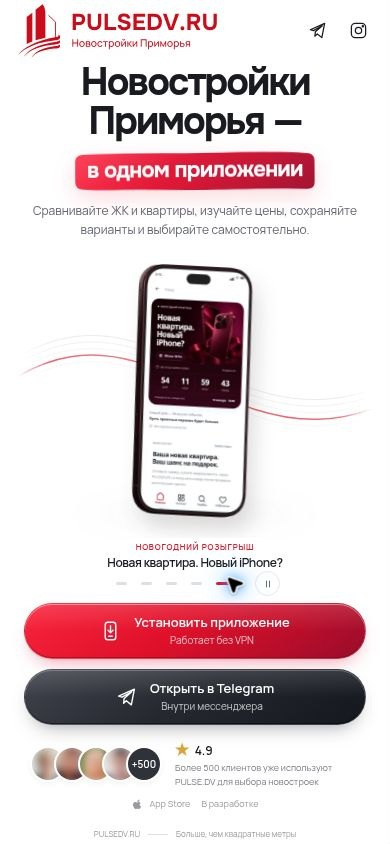
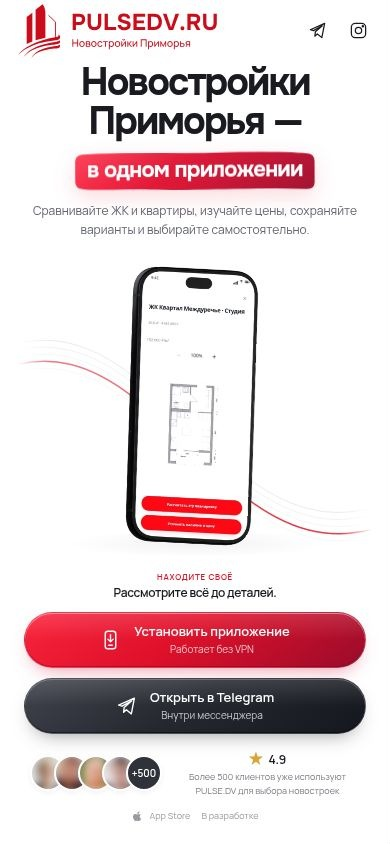
design: remove slideshow controls and decode device frames before transitions

diff --git a/design/landing-dual-entry/cinema.js b/design/landing-dual-entry/cinema.js
@@ -1,7 +1,6 @@
-// Original app captures on device renders. One pair owns the stage at a time.
+// Decoded, reused device images; only compositor transforms change each frame.
 const host=document.querySelector('.cinema'),stage=document.querySelector('.showcase');
 const description=document.querySelector('.scene-description'),caption=document.querySelector('.scene-caption'),label=document.querySelector('.scene-label');
-const pauseButton=document.querySelector('.motion-toggle'),dots=[...document.querySelectorAll('.scene-dot')];
 const reduced=matchMedia('(prefers-reduced-motion: reduce)');
 const scenes=[
  {title:'Новостройки — перед вами.',label:'Выбирайте',screens:['home','catalog'],angles:[-4,4],heights:[.88,.78],levels:[-.015,.035]},
@@ -11,74 +10,93 @@ const scenes=[
  {title:'Новая квартира. Новый iPhone?',label:'Новогодний розыгрыш',screens:['catalog','giveaway'],angles:[-4,3],heights:[.76,.90],levels:[.045,-.015]},
 ];
 const curves=[[470,240,160,-30,435,770],[370,430,310,-140,360,920],[535,180,10,140,555,530],[390,360,180,-30,470,840],[490,210,280,-180,380,700]];
+
 const paths=[...document.querySelectorAll('.flow-line')];
-const HOLD=6.5,EXIT=.95,ENTER=1.05;
-let clock=0,last=0,raf=0,current=0,next=0,previous=0,mode='enter',started=0,paused=false,visible=true,queued=null;
-let pair=null,dimensions={width:600,height:600};
+const HOLD=6.5,EXIT=.72,ENTER=1.10,REV='motion-4';
+const images=new Map();
+let clock=0,last=0,raf=0,current=0,next=0,previous=0,mode='enter',started=0,paused=false,visible=true,preparing=false,lastLine=-1;
+let pair=null,dimensions={width:600,height:600},poses=[];
 const clamp=x=>Math.max(0,Math.min(1,x));
 const smooth=x=>{const t=clamp(x);return t*t*(3-2*t)};
+const easeOut=x=>1-Math.pow(1-clamp(x),3);
+function loadScreen(name,priority='low'){
+ if(images.has(name))return images.get(name).promise;
+ const image=new Image();image.decoding='async';image.fetchPriority=priority;image.className='rendered-phone';image.alt='';image.width=560;image.height=1152;image.draggable=false;
+ const promise=(async()=>{
+  const loaded=new Promise((resolve,reject)=>{image.onload=resolve;image.onerror=reject;});
+  loaded.catch(()=>{});
+  image.src=`assets/phone-${name}.webp?v=${REV}`;
+  if(typeof image.decode==='function')await image.decode();else await loaded;
+  if(!image.complete||!image.naturalWidth)throw Error('Device image unavailable');
+  image.dataset.decoded='true';return image;
+ })().catch(error=>{images.delete(name);throw error;});
+ images.set(name,{image,promise});return promise;
+}
 function createPair(index){
  const p=document.createElement('div');p.className='phone-pair';p.setAttribute('aria-hidden','true');p.style.opacity='0';p.dataset.scene=String(index);
- scenes[index].screens.forEach(name=>{const im=new Image();im.src=`assets/phone-${name}.webp`;im.className='rendered-phone';im.alt='';im.width=700;im.height=1440;im.draggable=false;p.append(im)});host.append(p);return p;
+ scenes[index].screens.forEach(name=>p.append(images.get(name).image));host.append(p);return p;
 }
 function setScene(index){
  pair?.remove();current=index;pair=createPair(index);layout();stage.dataset.scene=String(index);
  caption.textContent=scenes[index].title;label.textContent=scenes[index].label;
- dots.forEach((d,i)=>d.setAttribute('aria-current',String(index===i)));
 }
-function transition(index){
- if(index===current&&mode==='hold')return;
- if(paused||reduced.matches){previous=current;setScene(index);mode='hold';started=clock;redraw();return;}
- if(mode!=='hold'){queued=index;return;}
- next=index;previous=current;mode='exit';started=clock;redraw();
+async function transition(index){
+ if(preparing||mode!=='hold'||index===current)return;preparing=true;
+ try{
+  await Promise.all(scenes[index].screens.map(async name=>{const image=await loadScreen(name);if(typeof image.decode==='function')await image.decode();}));
+  // Keep the current scene fully visible until every incoming bitmap is decoded.
+  if(reduced.matches||paused){preparing=false;return;}
+  next=index;previous=current;mode='exit';started=clock;redraw();
+ }catch{started=clock-HOLD+4;}finally{preparing=false;}
 }
 function layout(){
- if(!pair)return;const s=scenes[current],W=dimensions.width,H=dimensions.height;
+ if(!pair)return;const s=scenes[current],W=dimensions.width,H=dimensions.height,mobile=W<480,pick=[0,1,1,0,1][current];poses=[];
  [...pair.children].forEach((im,i)=>{
-  const mobile=dimensions.width<480;const pick=[0,1,1,0,1][current];im.style.display=mobile&&i!==pick?'none':'';
+  im.style.display=mobile&&i!==pick?'none':'';
   const angle=s.angles[i],r=700/1440,rad=Math.abs(angle)*Math.PI/180;
-  // Restrict both rotated rectangles to separate lanes and to the image row.
   const hh=mobile?Math.min(H*.92/(Math.cos(rad)+r*Math.sin(rad)),W*.78/(r*Math.cos(rad)+Math.sin(rad))):Math.min(H*.88/(Math.cos(rad)+r*Math.sin(rad)),W*.46/(r*Math.cos(rad)+Math.sin(rad)))*(s.heights[i]/.90);
-  const ww=hh*r,cx=W*(mobile?.5:i?.75:.25),cy=H*(mobile?.5:.5+s.levels[i]);
-  im.style.width=`${ww.toFixed(2)}px`;im.style.height=`${hh.toFixed(2)}px`;im.style.left=`${cx.toFixed(2)}px`;im.style.top=`${cy.toFixed(2)}px`;
-  const drift=Math.sin(clock*.38+i)*Math.min(3,H*.008);
-  im.style.transform=`translate(-50%,-50%) translateY(${drift.toFixed(2)}px) rotate(${angle}deg)`;
+  im.style.width=`${(hh*r).toFixed(2)}px`;im.style.height=`${hh.toFixed(2)}px`;im.style.left=`${(W*(mobile?.5:i?.75:.25)).toFixed(2)}px`;im.style.top=`${(H*(mobile?.5:.5+s.levels[i])).toFixed(2)}px`;
+  im.style.transform=`translate(-50%,-50%) rotate(${angle}deg)`;poses.push({im,angle,phase:i});
  });
 }
+function drift(){for(const p of poses){const y=Math.sin(clock*.38+p.phase)*Math.min(2,dimensions.height*.006);p.im.style.transform=`translate(-50%,-50%) translateY(${y.toFixed(2)}px) rotate(${p.angle}deg)`;}}
 function drawLines(){
- const t=mode==='exit'?smooth((clock-started)/EXIT)*.5:mode==='enter'?.5+smooth((clock-started)/ENTER)*.5:1;
- const a=curves[previous],b=curves[mode==='exit'?next:current];
- const c=b.map((v,i)=>a[i]+(v-a[i])*t);
+ if(clock-lastLine<1/30&&!reduced.matches)return;lastLine=clock;
+ const t=mode==='exit'?smooth((clock-started)/EXIT)*.5:mode==='enter'?.5+easeOut((clock-started)/ENTER)*.5:1;
+ const a=curves[previous],b=curves[mode==='exit'?next:current],c=b.map((v,i)=>a[i]+(v-a[i])*t);
  paths.forEach((p,i)=>{const off=i*14,w=Math.sin(clock*.24+i*.04)*14;p.setAttribute('d',`M -120 ${c[0]+off+w} C ${c[2]} ${c[3]+off}, ${c[4]} ${c[5]+off+w}, 810 ${c[1]+off}`)});
 }
 function render(){
  const elapsed=clock-started;
  if(mode==='exit'&&elapsed>=EXIT){setScene(next);mode='enter';started=clock;}
  else if(mode==='enter'&&elapsed>=ENTER){mode='hold';started=clock;}
- if(mode==='hold'&&!paused&&!reduced.matches){
-  if(queued!==null){const q=queued;queued=null;if(q!==current)transition(q)}
-  else if(clock-started>=HOLD)transition((current+1)%scenes.length);
- }
+ if(mode==='hold'&&!paused&&!reduced.matches&&clock-started>=HOLD)void transition((current+1)%scenes.length);
  const p=clamp((clock-started)/(mode==='exit'?EXIT:ENTER));
- // Whole-pair translation keeps lane separation at every intermediate frame.
- const x=mode==='exit'?-smooth(p)*dimensions.width*1.12:mode==='enter'?(1-smooth(p))*dimensions.width*1.12:0;
+ const x=mode==='exit'?-p*p*dimensions.width*.94:mode==='enter'?(1-easeOut(p))*dimensions.width*.94:0;
  pair.style.transform=`translate3d(${x.toFixed(2)}px,0,0)`;
- pair.style.opacity=String(mode==='exit'?1-smooth((p-.12)/.68):mode==='enter'?smooth(p/.72):1);
- description.style.opacity=String(mode==='exit'?1-smooth(p/.55):mode==='enter'?smooth((p-.28)/.60):1);
- layout();drawLines();
+ pair.style.opacity=String(mode==='exit'?1-smooth(p):mode==='enter'?smooth(p/.28):1);
+ description.style.opacity=String(mode==='exit'?1-smooth(p/.65):mode==='enter'?smooth((p-.24)/.55):1);
+ if(mode==='hold')drift();drawLines();
 }
-function tick(t){raf=0;const delta=last?Math.min((t-last)/1000,.12):0;last=t;if(!paused&&!reduced.matches&&!document.hidden&&visible)clock+=delta;render();if(!paused&&!reduced.matches&&!document.hidden&&visible)raf=requestAnimationFrame(tick);}
+function tick(t){raf=0;const delta=last?Math.min((t-last)/1000,.25):0;last=t;if(!paused&&!reduced.matches&&!document.hidden&&visible)clock+=delta;render();if(!paused&&!reduced.matches&&!document.hidden&&visible)raf=requestAnimationFrame(tick);}
 function redraw(){if(!raf){last=0;raf=requestAnimationFrame(tick)}}
-function syncRibbonMotion(){const svg=document.querySelector('.sprite');if(paused||reduced.matches||document.hidden)svg.pauseAnimations?.();else svg.unpauseAnimations?.();window.dispatchEvent(new Event('pulse:motion-change'));}
-function pauseUI(){syncRibbonMotion();document.documentElement.classList.toggle('motion-paused',paused);pauseButton.setAttribute('aria-pressed',String(paused));pauseButton.setAttribute('aria-label',paused?'Продолжить анимацию':'Приостановить анимацию');pauseButton.querySelector('.pause-icon').hidden=paused;pauseButton.querySelector('.play-icon').hidden=!paused;cancelAnimationFrame(raf);raf=0;redraw();}
-async function init(){
- await Promise.all([...new Set(scenes.flatMap(s=>s.screens))].map(name=>new Promise((resolve,reject)=>{const im=new Image();im.onload=resolve;im.onerror=reject;im.src=`assets/phone-${name}.webp`})));
- const initialRect=host.getBoundingClientRect();dimensions={width:initialRect.width,height:initialRect.height};setScene(0);syncRibbonMotion();if(reduced.matches)mode='hold';stage.classList.add('cinema-ready');host.setAttribute('aria-busy','false');
- new ResizeObserver(()=>{const r=host.getBoundingClientRect();dimensions={width:r.width,height:r.height};redraw()}).observe(host);
- dots.forEach((d,i)=>d.addEventListener('click',()=>transition(i)));
- pauseButton.addEventListener('click',()=>{paused=!paused;pauseUI()});
- document.addEventListener('visibilitychange',()=>{document.documentElement.classList.toggle('is-background',document.hidden);syncRibbonMotion();if(document.hidden){cancelAnimationFrame(raf);raf=0}else redraw()});
- new IntersectionObserver(e=>{visible=e[0].isIntersecting;if(visible)redraw();else{cancelAnimationFrame(raf);raf=0}},{threshold:.01}).observe(stage);
- reduced.addEventListener('change',()=>{queued=null;mode='hold';started=clock;pauseUI()});redraw();
+function syncMotion(){
+ document.documentElement.classList.toggle('motion-paused',paused);
+ const svg=document.querySelector('.sprite');if(paused||reduced.matches||document.hidden)svg.pauseAnimations?.();else svg.unpauseAnimations?.();
+ window.dispatchEvent(new Event('pulse:motion-change'));
 }
-init().catch(()=>{host.setAttribute('aria-busy','false');document.querySelector('.scene-controls').hidden=true});
+async function warmRemaining(){for(const name of [...new Set(scenes.flatMap(s=>s.screens))]){try{await loadScreen(name)}catch{/* A later transition retries while retaining the current picture. */}}}
+async function init(){
+ await Promise.all(scenes[0].screens.map(name=>loadScreen(name,'high')));
+ const r=host.getBoundingClientRect();dimensions={width:r.width,height:r.height};setScene(0);syncMotion();if(reduced.matches)mode='hold';
+ stage.classList.add('cinema-ready');host.setAttribute('aria-busy','false');
+ new ResizeObserver(()=>{const r=host.getBoundingClientRect();dimensions={width:r.width,height:r.height};layout();redraw()}).observe(host);
+ document.addEventListener('visibilitychange',()=>{document.documentElement.classList.toggle('is-background',document.hidden);syncMotion();if(document.hidden){cancelAnimationFrame(raf);raf=0}else redraw()});
+ new IntersectionObserver(e=>{visible=e[0].isIntersecting;if(visible)redraw();else{cancelAnimationFrame(raf);raf=0}},{threshold:.01}).observe(stage);
+ reduced.addEventListener('change',()=>{mode='hold';started=clock;syncMotion();redraw()});
+ document.addEventListener('keydown',e=>{if(e.key!=='Escape'||e.repeat)return;paused=!paused;syncMotion();cancelAnimationFrame(raf);raf=0;redraw()});
+ // Present a decoded, positioned layer before starting the entrance clock.
+ requestAnimationFrame(()=>requestAnimationFrame(()=>{started=clock;redraw();}));
+ if('requestIdleCallback' in window)requestIdleCallback(()=>void warmRemaining(),{timeout:1200});else setTimeout(()=>void warmRemaining(),200);
+}
+init().catch(()=>{document.documentElement.classList.remove('cinema-loading');host.setAttribute('aria-busy','false');});

diff --git a/design/landing-dual-entry/index.html b/design/landing-dual-entry/index.html
@@ -1,10 +1,12 @@
 <!doctype html>
 <html lang="ru">
 <head>
+<script>document.documentElement.classList.add("cinema-loading")</script>
 <meta charset="utf-8"><meta name="viewport" content="width=device-width, initial-scale=1, viewport-fit=cover"><meta name="theme-color" content="#fff">
 <title>PULSEDV.RU — приложение на вашем телефоне</title>
 <meta name="description" content="Новостройки Приморья в PULSEDV.RU: каталог, планировки, расчёт ипотеки и партнёрская программа.">
-<link rel="preload" as="image" href="assets/app-home.jpg">
+<link rel="preload" as="image" href="assets/phone-home.webp?v=motion-4" fetchpriority="high">
+<link rel="preload" as="image" href="assets/phone-catalog.webp?v=motion-4" fetchpriority="high">
 <link rel="icon" href="assets/pulse-mark-180-v2.png"><link rel="stylesheet" href="style.css">
 </head>
 <body>
@@ -62,14 +64,11 @@
  <div class="cinema" role="img" aria-label="Объёмные телефоны с экранами каталога, ЖК, ипотеки, партнёрской программы и конкурса" aria-busy="true"></div>
  </div>
  <div class="scene-description"><span class="scene-label">Выбирайте</span><p class="scene-caption">Новостройки — перед вами.</p></div>
- <div class="scene-controls" aria-label="Сцены презентации">
-  <div class="scene-picker"><button class="scene-dot" aria-label="Каталог и главная" aria-current="true"></button><button class="scene-dot" aria-label="ЖК и планировки" aria-current="false"></button><button class="scene-dot" aria-label="Избранное и ипотека" aria-current="false"></button><button class="scene-dot" aria-label="Партнёрская программа" aria-current="false"></button><button class="scene-dot" aria-label="Новогодний розыгрыш" aria-current="false"></button></div>
-  <button class="motion-toggle" aria-label="Приостановить анимацию" aria-pressed="false"><svg class="pause-icon" viewBox="0 0 24 24"><path d="M9 6v12M15 6v12"/></svg><svg class="play-icon" viewBox="0 0 24 24" hidden><path d="m9 5 10 7-10 7Z"/></svg></button>
- </div>
+
 
 </section>
 </main>
-<footer class="wrap footer"><p>Владивосток <span>·</span> Уссурийск <span>·</span> Артём</p><p>PULSEDV.RU <i></i> Больше, чем квадратные метры</p></footer>
+
 <script src="assets/lottie-light-5.13.0.min.js" defer></script>
 <script src="capability-icons.js" defer></script>
 <script type="module" src="cinema.js"></script>

diff --git a/design/landing-dual-entry/style.css b/design/landing-dual-entry/style.css
@@ -74,3 +74,15 @@ h1{font:700 clamp(40px,4.6vw,68px)/1.05 Onest,sans-serif;letter-spacing:-.05em}.
 @media(min-width:960px) and (max-height:690px){.copy{row-gap:14px;grid-template-rows:max-content minmax(68px,1fr) max-content}.capabilities{padding:12px 0;gap:12px}.capabilities svg{width:20px;height:20px;margin-bottom:7px}.capabilities strong{font-size:11px}.capabilities span{font-size:9px}}
 .capability-icon{position:relative;display:block;width:24px;height:24px;flex:none;margin-bottom:10px}.capabilities .capability-icon>svg{position:absolute;inset:0;margin:0;width:24px;height:24px;stroke-width:1.5}.capability-lottie{position:absolute;inset:0}.capability-lottie>svg{display:block;width:100%!important;height:100%!important;margin:0!important}.lottie-ready>svg{visibility:hidden}
 @media(min-width:960px) and (max-height:690px){.capability-icon{width:21px;height:21px;margin-bottom:7px}.capabilities .capability-icon>svg{width:21px;height:21px}}
+/* Clean lower edge, no slideshow chrome or duplicated footer copy. */
+body{grid-template-rows:var(--header) minmax(0,1fr)}
+.copy{min-height:0}.hero{padding-bottom:24px}
+.showcase{grid-template-rows:minmax(0,1fr) 48px}
+.rendered-phone{filter:none}.stage-shadow{filter:none;bottom:3%;height:9%;opacity:.65}
+.scene-description{padding-bottom:5px}
+@media(min-width:960px){.copy{padding-bottom:16px}}
+@media(max-width:959px) and (orientation:portrait){.hero{padding-bottom:14px}.showcase{grid-template-rows:minmax(0,1fr) 34px;margin-bottom:10px}.scene-description{padding-bottom:0}.entry-meta{margin-top:8px}}
+@media(max-width:959px) and (orientation:portrait) and (max-height:740px){.hero{padding-bottom:10px}.showcase{grid-template-rows:minmax(0,1fr) 22px;margin-bottom:8px}}
+@media(orientation:landscape) and (max-height:500px){.hero{padding-bottom:12px}.showcase{grid-template-rows:minmax(0,1fr) 32px}}
+@media(min-width:960px) and (max-height:680px){:root{--header:64px}.header .brand img{width:220px}.hero{padding-top:6px;padding-bottom:20px}.copy{padding:4px 0 8px;row-gap:8px;grid-template-rows:max-content minmax(76px,1fr) max-content}h1{font-size:44px}.highlight{margin-top:8px;padding:7px 15px 10px}.description{font-size:12px;line-height:1.6;margin-top:12px}.entry-button{min-height:56px}.social-proof{margin-top:14px}.entry-meta{margin-top:8px}.capabilities{padding:8px 0}.capability-icon{height:18px;width:18px;margin-bottom:5px}.capabilities .capability-icon>svg{height:18px;width:18px}.capabilities strong{font-size:11px;margin-bottom:3px}.capabilities span{font-size:9px;line-height:1.5}}
+.cinema-loading .fallback-phones{visibility:hidden;opacity:0}

diff --git a/design/landing-dual-entry/README.md b/design/landing-dual-entry/README.md
@@ -102,3 +102,26 @@ They share 1.5px round red strokes, a short reveal and pointer-hover replay.
 The local Lottie-light runtime and license are included. Static SVG fallback,
 reduced motion, global pause and visibility handling are preserved. The strip
 is hidden on mobile portrait to keep the centered single-screen composition.
+
+
+## Motion/loading refinement
+
+Removed visible pause, scene indicators and the duplicated marketing footer.
+Captions and the App Store development status now have separate clear space.
+Reduced motion and hidden-tab suspension remain supported; Escape toggles motion
+without adding slideshow controls to the composition.
+
+First-scene images get high-priority preload and decode before entrance. Remaining
+screens warm sequentially during idle time. Every transition rechecks decode
+readiness before starting the outgoing motion; current pictures remain visible
+on slow/failed loads. The eight decoded Image elements are reused between scenes.
+Bitmap size is 560×1152 and total device assets drop from 762456 to 487176 bytes
+(36%). Per-phone CSS drop shadows are removed; only compositor transforms and
+opacity change in the animation loop. Dimensions are assigned on scene/viewport
+changes rather than every frame. SVG paths update at 30fps; phone motion uses rAF.
+Reading dwell remains 6.5 seconds. Exit is 0.72s; entrance is 1.10s with faster
+initial travel and a soft ease-out. The pair remains lane-separated throughout.
+
+Browser verification: 1366×568 and 390×844 overflow is zero on both axes;
+App Store/captions remain inside the viewport. Later automatic scenes show
+complete, explicitly decoded bitmaps. No visible slideshow controls/footer remain.
